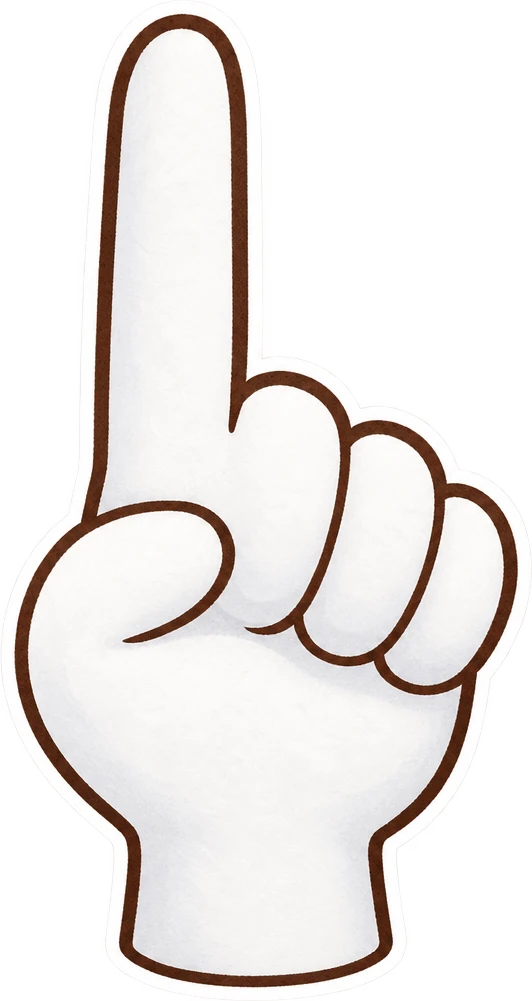
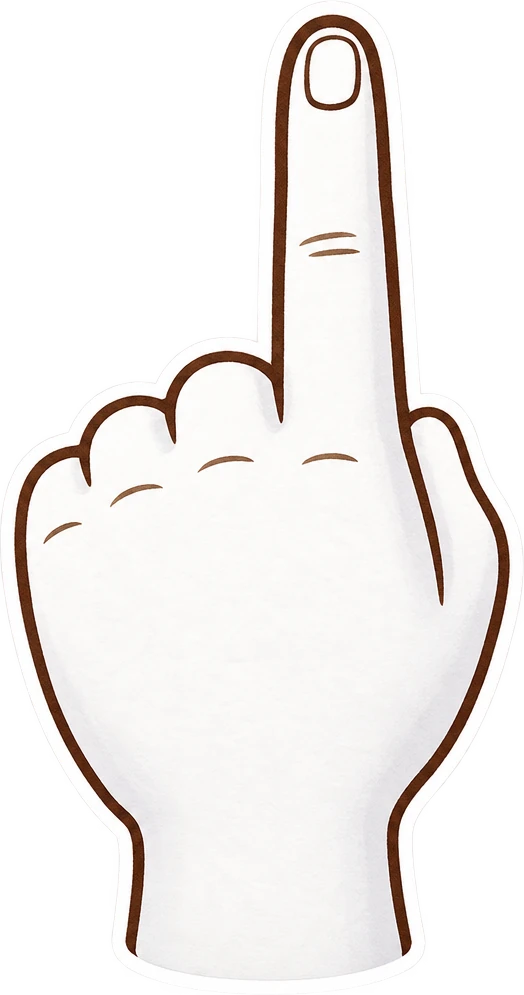
canvas hints: knuckles to the viewer, and demos play to the end
The hint hand is now drawn from the back (nail and knuckles toward the
viewer), a left hand; the layer demo uses it mirrored, a right hand.
A touch no longer cancels a demo: it plays to its end while the child
keeps playing (its sample sticker and bubble ignore touches), and a
hint queued behind it waits for the next idle spell instead. A story
starting, the clear dialog or a size change still stop one.

Changed region(s): [[0.0, 0.0, 0.9771, 0.997], [0.5802, 0.2181, 0.6718, 0.2804]]

diff --git a/app/StickerStories/Canvas/CanvasScene.swift b/app/StickerStories/Canvas/CanvasScene.swift
@@ -226,6 +226,9 @@ final class CanvasScene: SKScene {
     private var sceneTime: TimeInterval = 0
     private var hintDemo: CanvasHintDemo?
     private var hintQueue: [CanvasHint] = []
+    /// The child touched the canvas while a hint played: the queued ones
+    /// wait for the next idle spell.
+    private var touchedDuringHint = false
     /// Off while something covers the canvas (the clear confirmation).
     var hintsAllowed = true {
         didSet { if !hintsAllowed { cancelHints() } }
@@ -703,10 +706,11 @@ final class CanvasScene: SKScene {
 
     override func touchesBegan(_ touches: Set<UITouch>, with event: UIEvent?) {
         cameraNode.removeAction(forKey: Self.panHintActionKey)
-        // Any touch ends a hint at once (before hit-testing, so the sample
-        // sticker is gone) and restarts the idle clock.
-        cancelHints()
+        // A hint plays to its end whatever the child does (its sample and
+        // bubble ignore touches); a touch only restarts the idle clock and
+        // holds the next hint back for another idle spell.
         noteActivity()
+        if hintDemo != nil { touchedDuringHint = true }
         guard !isPlayLocked else {
             // Editing is locked while a story plays, but looking around is
             // fine: any touch pans.
@@ -724,7 +728,10 @@ final class CanvasScene: SKScene {
 
             if let (control, sticker) = controlHit(in: hits) {
                 handleControlTap(control, on: sticker)
-            } else if hits.contains(where: { self.ancestor(of: $0, as: SelectionBubbleNode.self) != nil }) {
+            } else if hits.contains(where: {
+                guard let bubble = self.ancestor(of: $0, as: SelectionBubbleNode.self) else { return false }
+                return bubble.target?.isVisitor != true  // a hint's bubble is only there to be watched
+            }) {
                 // Tap on the bubble's chrome (not a button): ignore, so a
                 // near-miss doesn't deselect or drop a sticker behind it.
             } else if let trayItem = hits.lazy.compactMap({ self.ancestor(of: $0, as: TrayItemNode.self) }).first {
@@ -772,7 +779,8 @@ final class CanvasScene: SKScene {
         var best: StickerNode?
         var bestZ = -CGFloat.infinity
         for node in hits {
-            guard let sticker = ancestor(of: node, as: StickerNode.self) else { continue }
+            // A hint's sample sticker is only there to be watched.
+            guard let sticker = ancestor(of: node, as: StickerNode.self), !sticker.isVisitor else { continue }
             let z = (sticker.parent?.zPosition ?? 0) + sticker.zPosition
             if z > bestZ {
                 bestZ = z
@@ -885,7 +893,7 @@ final class CanvasScene: SKScene {
             if let name = node.name,
                 name.hasPrefix(SelectionBubbleNode.ControlName.prefix),
                 let bubble = ancestor(of: node, as: SelectionBubbleNode.self),
-                let sticker = bubble.target {
+                let sticker = bubble.target, !sticker.isVisitor {
                 return (name, sticker)
             }
         }
@@ -1560,10 +1568,15 @@ final class CanvasScene: SKScene {
         hintProgress.markUsed(hint)
     }
 
+    /// Stops a hint for things that end the canvas moment — a story
+    /// starting, a dialog, the window changing size — never for a touch.
+    /// Hints that did not get to play are offered again later.
     private func cancelHints() {
         hintDemo?.cancel()
         hintDemo = nil
+        hintSchedule.postpone(hintQueue)
         hintQueue.removeAll()
+        touchedDuringHint = false
     }
 
     /// Starts the due hints once the canvas has been left alone long
@@ -1585,6 +1598,11 @@ final class CanvasScene: SKScene {
     }
 
     private func playNextHint() {
+        if touchedDuringHint {
+            touchedDuringHint = false
+            hintSchedule.postpone(hintQueue)
+            hintQueue.removeAll()
+        }
         guard !hintQueue.isEmpty, let art = handArt else {
             hintDemo = nil
             noteActivity()

diff --git a/app/StickerStories/Canvas/CanvasHintDemo.swift b/app/StickerStories/Canvas/CanvasHintDemo.swift
@@ -124,8 +124,9 @@ final class CanvasHintDemo {
     /// (the sticker slips behind the scenery), taps it again (it comes
     /// back to the front) and leaves.
     private func playLayer(_ sticker: StickerNode, completion: @escaping () -> Void) {
-        let hand = makeHand(mirrored: false)
-        hand.zRotation = 0.35  // pointing up and a little to the left
+        // The art is a left hand seen from the back; mirrored it is the
+        // right hand most children tap with, pointing up and a little left.
+        let hand = makeHand(mirrored: true)
         let ring = makeRing()
         let centre = sticker.position
         let size = sticker.size.width
@@ -213,8 +214,10 @@ final class CanvasHintDemo {
         let hand = SKSpriteNode(texture: texture, size: CGSize(width: stage.handHeight * aspect, height: stage.handHeight))
         hand.anchorPoint = mirrored ? CGPoint(x: 1 - stage.handTip.x, y: stage.handTip.y) : stage.handTip
         if mirrored { hand.xScale = -1 }
-        // Leaning in from below, towards the middle: the left hand points
-        // up and right, the right one up and left.
+        // The art is a left hand seen from the back (knuckles to the
+        // viewer); mirrored, the right one. Leaning in from below, towards
+        // the middle: the left hand points up and right, the right one up
+        // and left.
         hand.zRotation = mirrored ? 0.35 : -0.35
         hand.zPosition = 960
         hand.alpha = 0

diff --git a/app/StickerStoriesKit/Sources/StickerStoriesKit/CanvasHints.swift b/app/StickerStoriesKit/Sources/StickerStoriesKit/CanvasHints.swift
@@ -18,8 +18,10 @@ public protocol HintProgressStore: Sendable {
 
 /// When to show the canvas's hints: after `idleDelay` seconds with no
 /// touch, each gesture the child has never used, in `CanvasHint` order,
-/// at most once per visit to a story. Pure — the scene tells it how long
-/// it has been idle — so it is unit-tested.
+/// at most once per visit to a story. A demo that starts plays to its end
+/// whatever the child does; the next one waits for another idle spell.
+/// Pure — the scene tells it how long it has been idle — so it is
+/// unit-tested.
 public struct CanvasHintSchedule: Sendable {
     public static let idleDelay: TimeInterval = 10
 
@@ -39,6 +41,13 @@ public struct CanvasHintSchedule: Sendable {
         let hints = CanvasHint.allCases.filter { !used.contains($0) && !shown.contains($0) }
         shown.formUnion(hints)
         return hints
+    }
+
+    /// Hints that were due but did not get to play (the child started
+    /// playing during the one before): offered again after the next idle
+    /// spell.
+    public mutating func postpone(_ hints: [CanvasHint]) {
+        shown.subtract(hints)
     }
 
     /// The child used the gesture: its hint never shows again.

diff --git a/app/StickerStoriesKit/Tests/StickerStoriesKitTests/CanvasHintTests.swift b/app/StickerStoriesKit/Tests/StickerStoriesKitTests/CanvasHintTests.swift
@@ -25,6 +25,15 @@ import Testing
         #expect(!schedule.hasPending)
     }
 
+    @Test func aPostponedHintComesBackAfterTheNextIdleSpell() {
+        var schedule = CanvasHintSchedule(used: [])
+        #expect(schedule.due(idleFor: 10) == [.pinch, .layer])
+        schedule.postpone([.layer])
+        #expect(schedule.hasPending)
+        #expect(schedule.due(idleFor: 5).isEmpty)
+        #expect(schedule.due(idleFor: 10) == [.layer])
+    }
+
     @Test func usingAGestureRetiresItsHint() {
         var schedule = CanvasHintSchedule(used: [])
         schedule.markUsed(.layer)

diff --git a/docs/architecture.md b/docs/architecture.md
@@ -184,7 +184,11 @@ touch (`CanvasHintSchedule`, Kit, tested), outside stories and dialogs,
 only for gestures the child has **never** used (app-wide flags in
 UserDefaults, `UserDefaultsHintProgress`; local UI state, see
 `docs/compliance.md`), each at most once per visit to a pack, both in a
-row when both are due. Any touch cancels a demo at once. The sample is
+row when both are due. A demo plays to its end even if the child
+touches the screen (the child can keep playing; the sample and its
+bubble ignore touches), and a hint queued behind it then waits for the
+next idle spell; only a story starting, a dialog or the window changing
+size stops one. The sample is
 never part of the canvas (not saved, not undoable); it goes where
 `HintPlacement` scores best — open ground for the pinch, half over the
 foreground art for the layer button. DEBUG: `-hintsDemo` shows both
